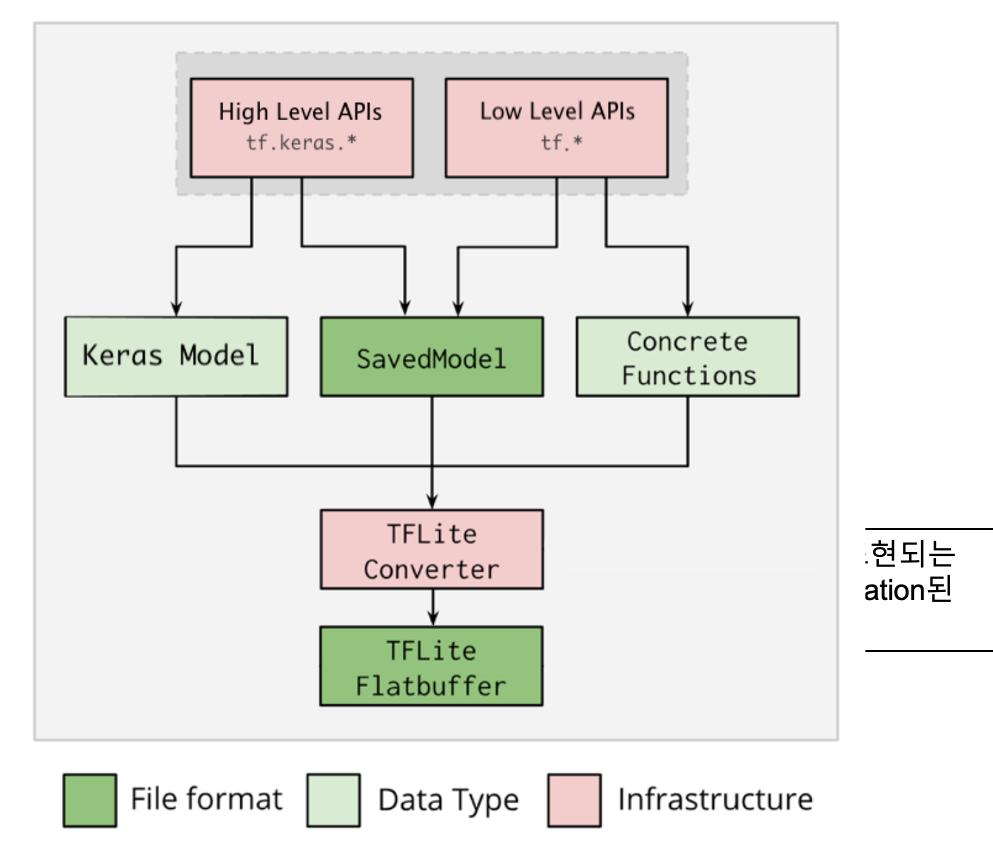
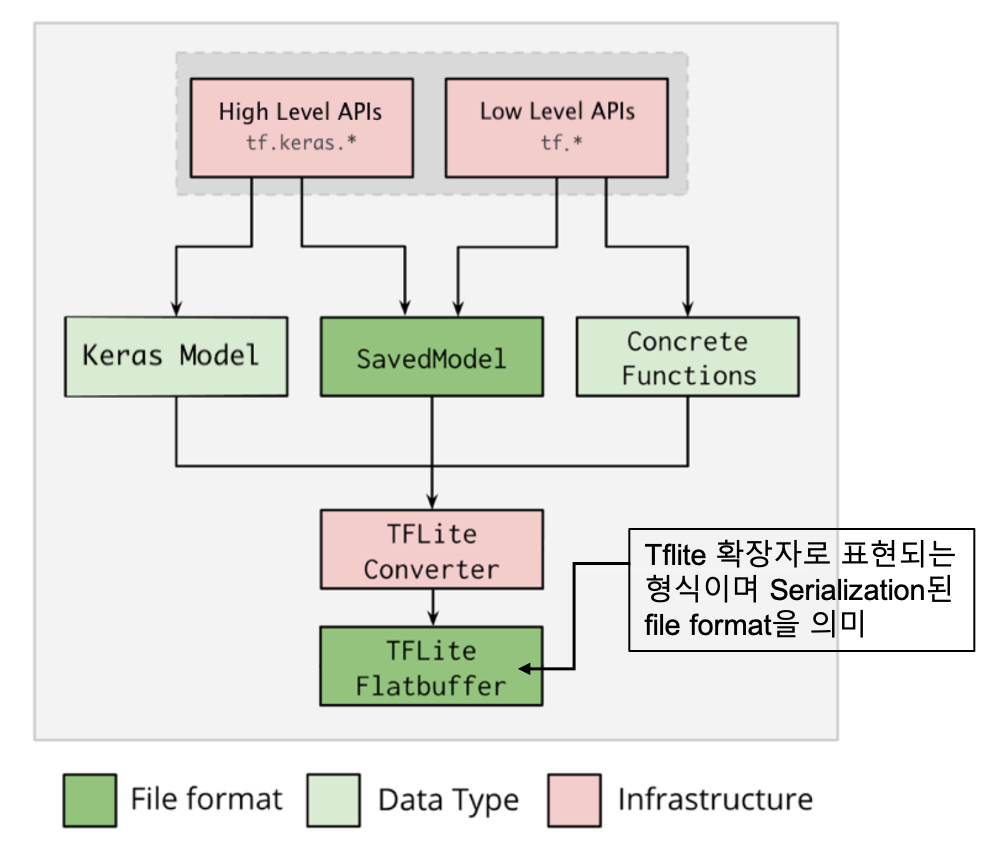
Update

diff --git a/_posts/2020-12-23-Master_TFlite.md b/_posts/2020-12-23-Master_TFlite.md
@@ -59,5 +59,23 @@ def keras2TFlite(model_path):
         f.write(tflite_model)
 ```
 
-|Model|File size ||
-|pruned
+
+조금 설명드리면 예제 모델은 제가 resnet18모델을 pruning시킨 모델이에요. Test acc는 85%정도인데 parameter는 8만개만 쓰였습니다!  
+어떻게 pruning시킨지 알고싶으면 여기로 [HERE](https://github.com/da2so/Eagleeye_Tensorflow)
+
+|Model|File size|Download|
+|-----|--------|---------|
+|pruned_resnet18|507KB|[pruned.h5](https://drive.google.com/file/d/15fmEkZYk0bvi_9YbsBw5jZELuzoz7gym/view?usp=sharing)|
+|tflite_resnet18|329KB|[tflite.h5](https://drive.google.com/file/d/1IpjGsOwqaqBg3S7RqSxVR3aN0qOF_AMS/view?usp=sharing)|
+
+왜 TFLite model로 변환했는데 model size가 줄었는 지 위의 attribute를 잘 보셨다면 이해가실겁니다.  
+**target_spec** attribute가 default로 float16으로 되있기 때문입니다. 원래 keras model의 weight들은 모두 float32표현되어 있었지만 tflite로 되면서 float16으로 표현된 것이죠.
+이렇게 간단하게 모델의 크기를 줄엿네요;;
+
+이번 장의 마지막으로 keras model와 tflite model을 netron을 이용해서 visualization한 모습을 비교해 드릴게요.
+
+![2](https://da2so.github.io/assets/post_img/2020-12-23-Master_TFlite/2.png){: .mx-auto.d-block width="60%" :}
+
+
+다음 장에서는 TFLite 모델로 inference하는 방식과 여유가 된다면 mobile로 작동하는 것을 보여드리도록 하는 게 목표입니다.  
+BYE!
